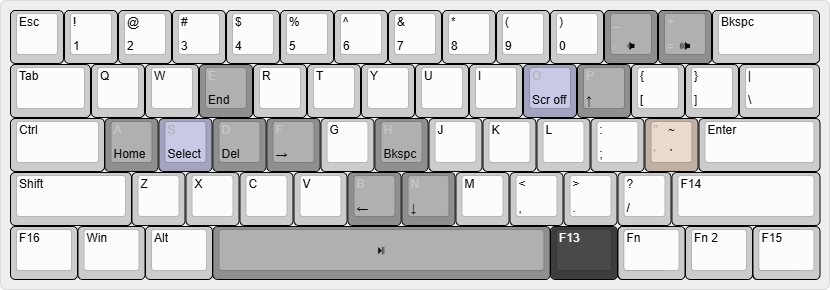
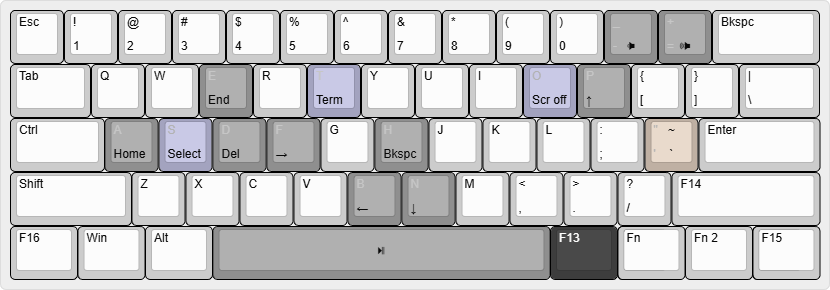
Open terminal

Changed region(s): [[0.3614, 0.2172, 0.4518, 0.4034]]

diff --git a/README.md b/README.md
@@ -51,7 +51,7 @@ These let you navigate and edit text without moving your hands out of typing pos
 
 #### Typing
 
-These are more convenient ways to type characters. They activate when `F13` is held, and they work with `Shift`.
+These are more convenient ways to type characters. They work with `Shift`.
 
 For example on a 60% keyboard, where `Escape` replaces `Backtick` and `Tilde`, it's a lot easier to type `F13 + '` than `Fn + Esc`.
 
@@ -59,14 +59,6 @@ For example on a 60% keyboard, where `Escape` replaces `Backtick` and `Tilde`, i
 | ----------- | ---------- |
 | `'`         | `Backtick` |
 | `Shift + '` | ~          |
-
-#### Media control
-
-| From    | To                 |
-| ------- | ------------------ |
-| `=`     | `Volume_Up`        |
-| `-`     | `Volume_Down`      |
-| `Space` | `Media_Play_Pause` |
 
 #### Select
 
@@ -79,6 +71,20 @@ Pressing `S` again without letting go of `F13` also ends the selection.
 | From | To       |
 | ---- | -------- |
 | `S`  | `Select` |
+
+#### Application launchers
+
+| From | To              |
+| ---- | --------------- |
+| `T`  | `Open terminal` |
+
+#### Media control
+
+| From    | To                 |
+| ------- | ------------------ |
+| `=`     | `Volume_Up`        |
+| `-`     | `Volume_Down`      |
+| `Space` | `Media_Play_Pause` |
 
 #### Screen off
 
